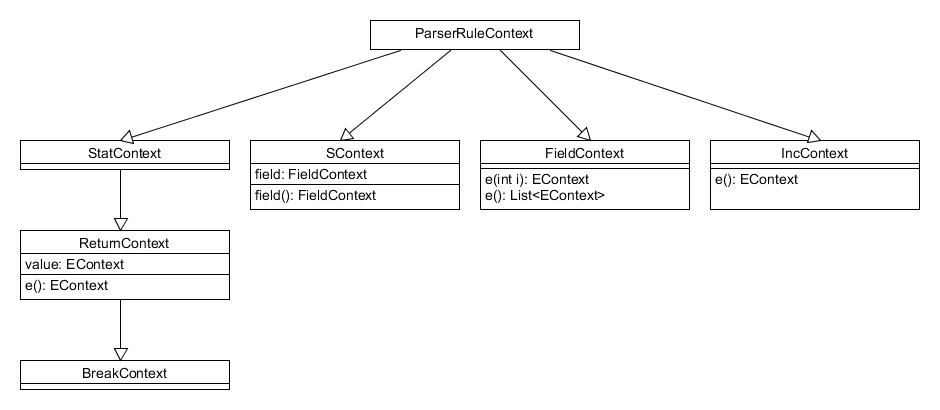
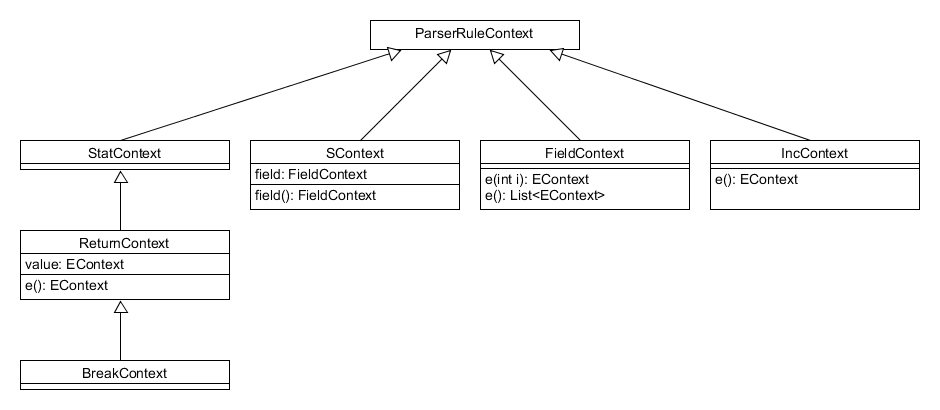
Pfeile umgedreht

diff --git a/markdown/interpretation/syntaxdriven/index.md b/markdown/interpretation/syntaxdriven/index.md
@@ -65,7 +65,7 @@ Es gibt verschiedene Varianten, beispielsweise:
     *   Simuliert eine *Stack Machine*, d.h. hält alle (temporären) Werte auf einem Stack
     *   Arbeitet typischerweise auf bereits stark vereinfachtem Zwischencode (IR),
         etwa Bytecode
-        :::
+    :::
 
 *   Register-basierte Interpreter
 
@@ -74,7 +74,7 @@ Es gibt verschiedene Varianten, beispielsweise:
         Prozessor-Registern
     *   Arbeitet typischerweise auf bereits stark vereinfachtem Zwischencode (IR),
         etwa Bytecode
-        :::
+    :::
 
 ::: notes
 Weiterhin kann man Interpreter danach unterscheiden, ob sie interaktiv sind oder nicht.
@@ -210,10 +210,7 @@ public static class FieldContext extends ParserRuleContext {
     ...
 }
 ```
-
-::: {.column width="35%"}
 ![](images/ParserRuleContext.png)
-:::
 
 ::: notes
 Jede Regel liefert ein passend zu dieser Regel generiertes Kontext-Objekt zurück. Darüber kann man das/die
@@ -237,9 +234,7 @@ public static class IncContext extends ParserRuleContext {
 }
 ```
 
-::: {.column width="35%"}
 ![](images/ParserRuleContext2.png)
-:::
 
 **Anmerkung**: ANTLR generiert nur dann Felder für die Regel-Elemente im Kontextobjekt,
 wenn diese in irgendeiner Form referenziert werden. Dies kann beispielsweise durch
@@ -268,9 +263,7 @@ public static class ReturnContext extends StatContext {
 public static class BreakContext extends StatContext { ... }
 ```
 
-::: {.column width="35%"}
 ![](images/ParserRuleContext3.png)
-:::
 
 Mit `value=e` wird der Aufruf der Regel `e` mit dem Label `value` belegt, d.h. man kann
 mit `$e.text` oder `$value.text` auf das `text`-Attribut von `e` zugreifen. Falls es in
